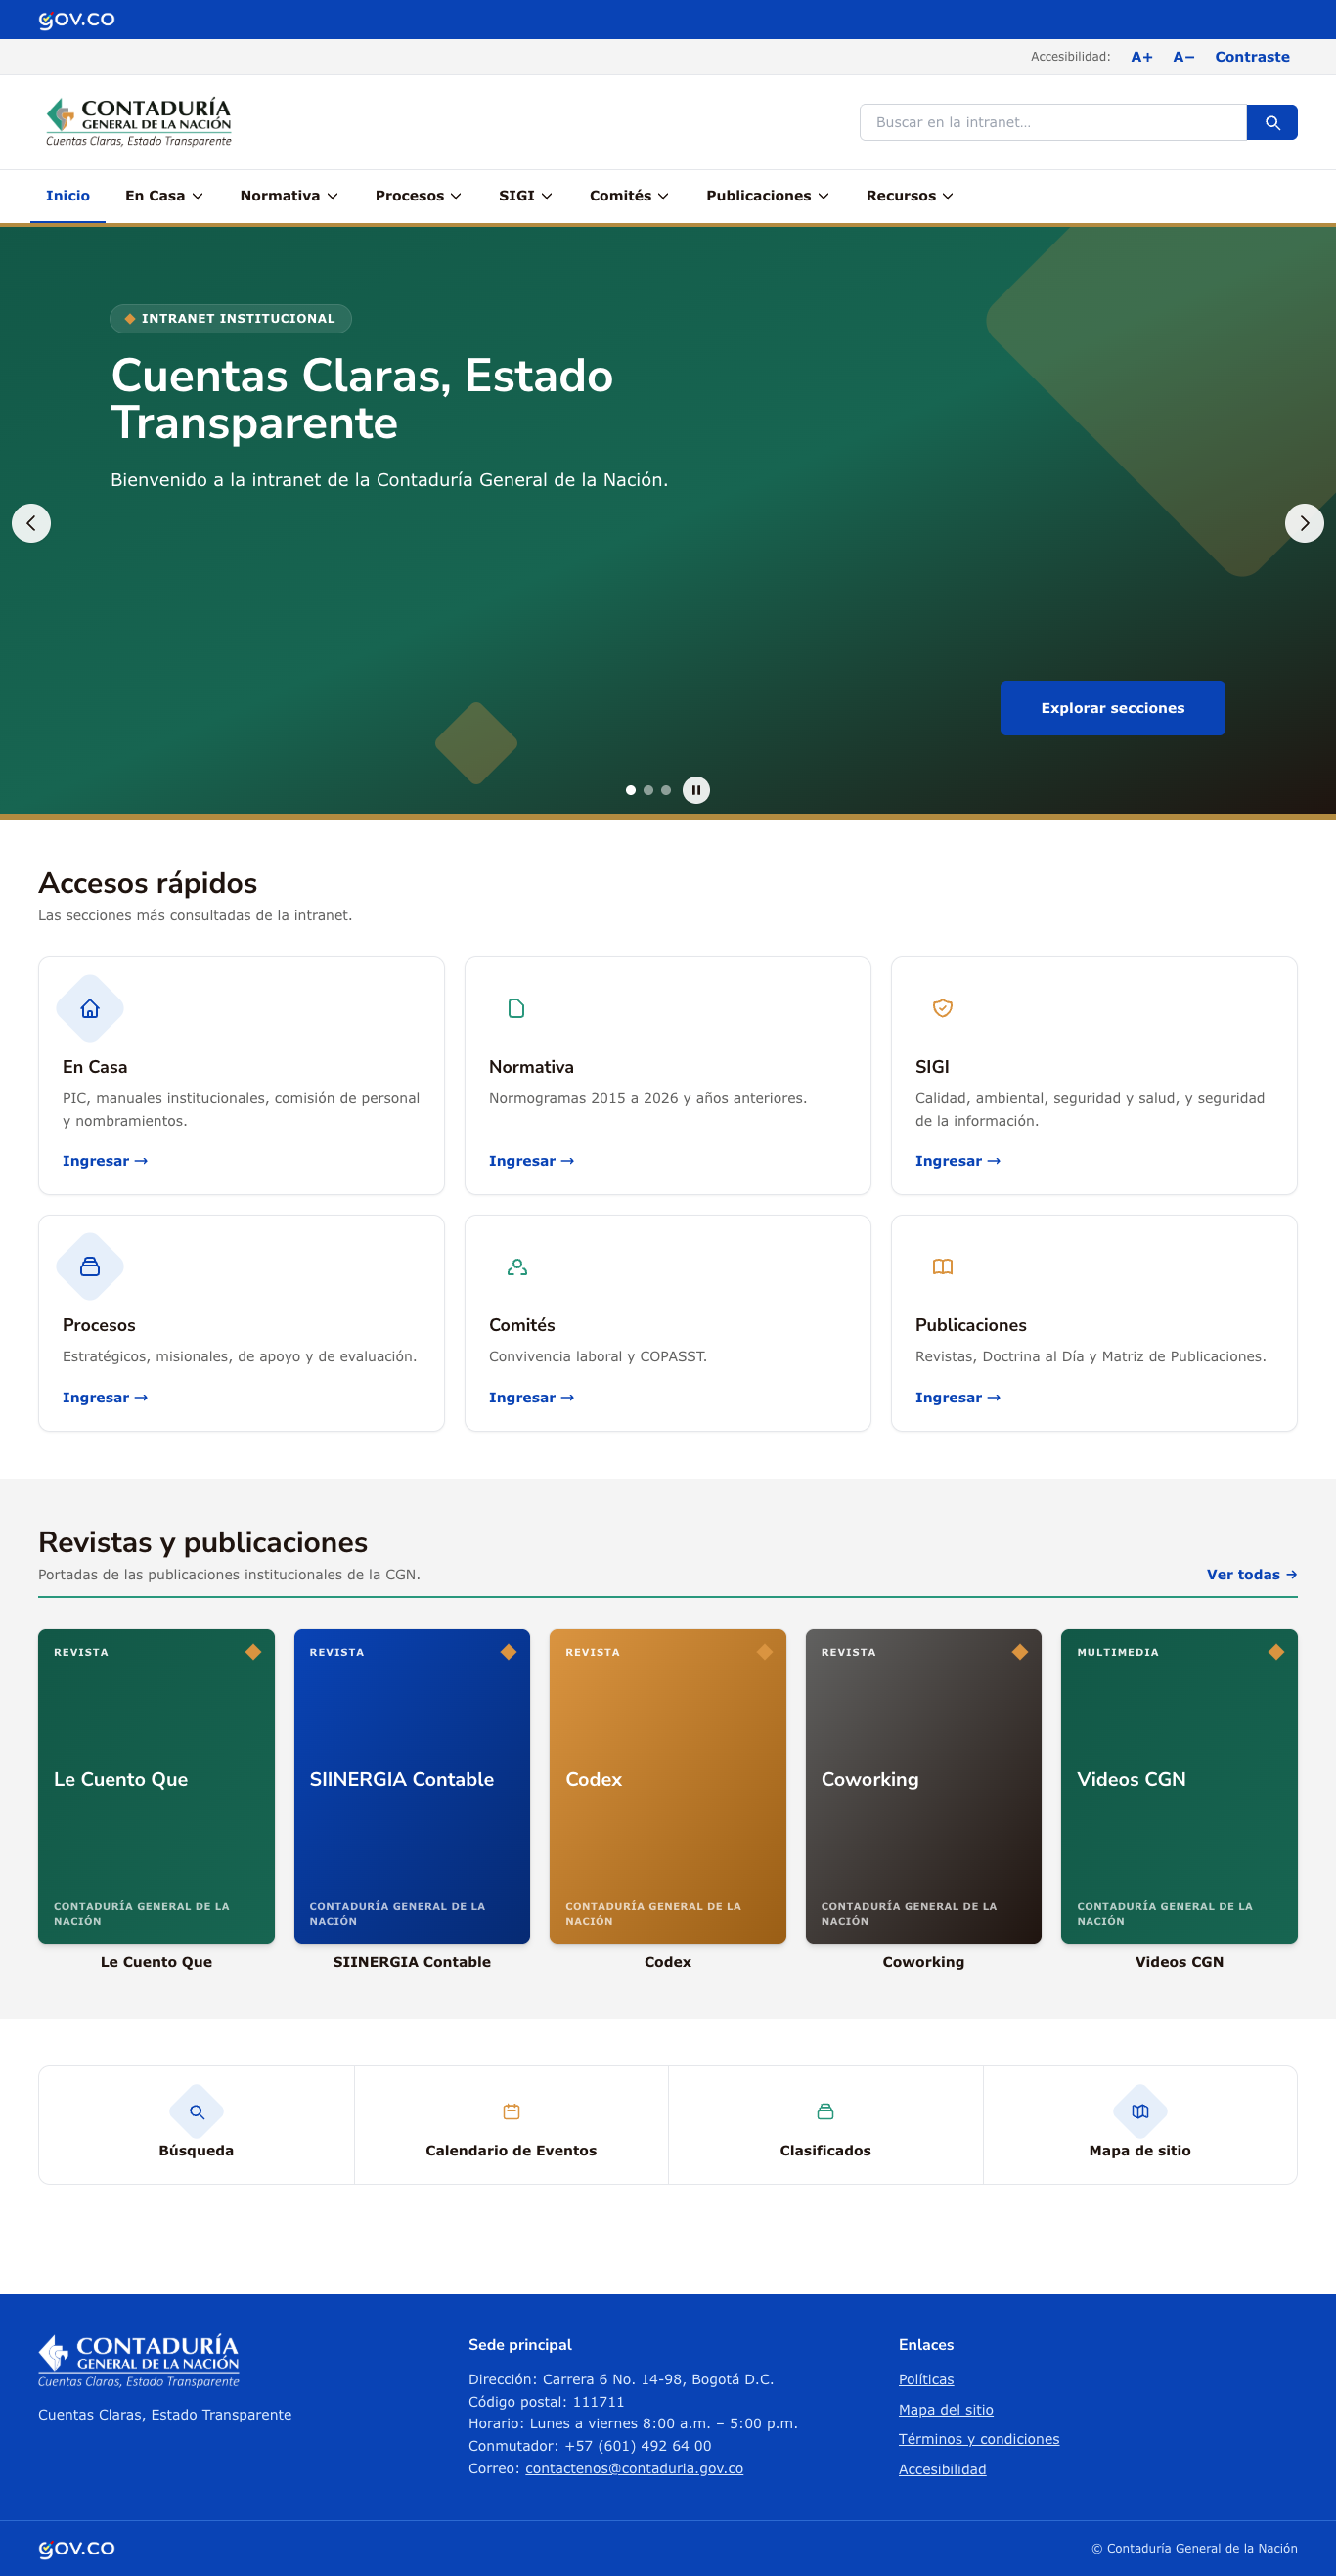
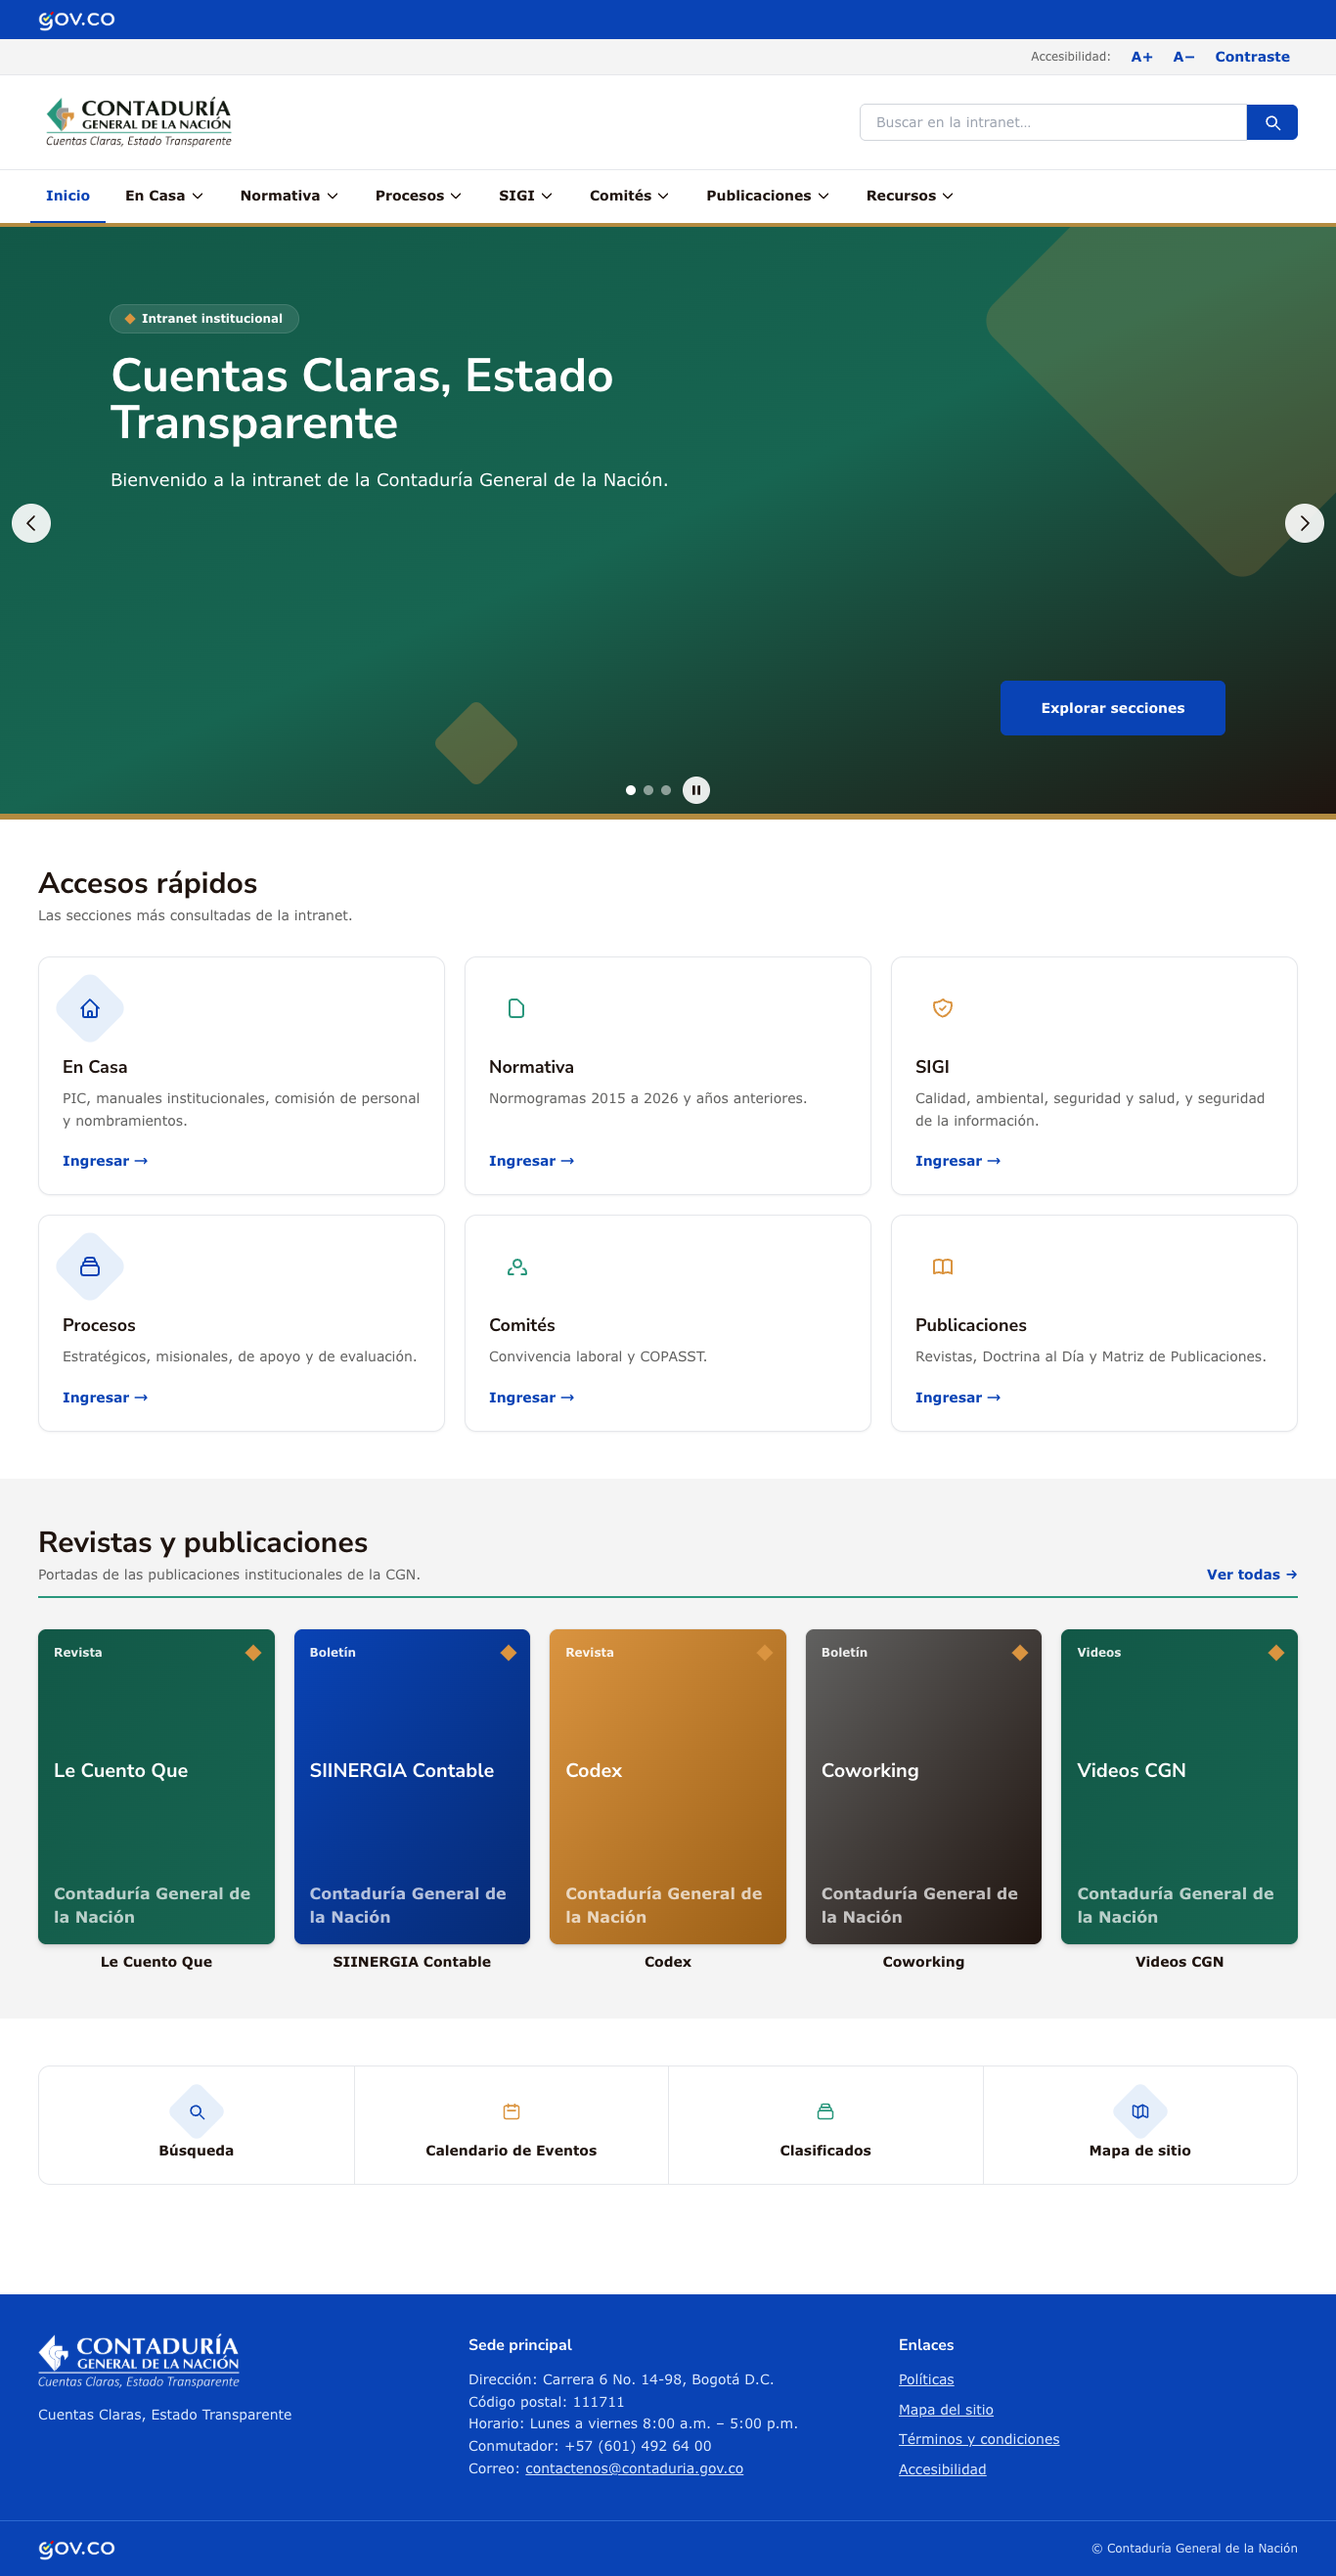
Publicaciones: clasificar boletines vs revistas y quitar mayúsculas sostenidas
- SIINERGIA Contable y Coworking marcados como Boletín (no Revista); etiqueta
  por publicación en nav.json (tag)
- Se elimina el uso de 'uppercase' (mayúsculas sostenidas) en portadas, carrusel,
  hero y encabezados de sección; textos en caja normal
- Revisión ortográfica (acentos correctos); nombres de sección según el mapa de sitio

diff --git a/templates/pages/home.html b/templates/pages/home.html
@@ -42,10 +42,10 @@
       {# Galería de portadas (visual) — listas para reemplazar por las imágenes reales #}
       <div class="grid grid-cols-2 gap-5 sm:grid-cols-3 lg:grid-cols-5">
         {% include "components/cover.html" with title="Le Cuento Que" url="publicaciones.html" color="verde" tag="Revista" %}
-        {% include "components/cover.html" with title="SIINERGIA Contable" url="publicaciones.html" color="cobalt" tag="Revista" %}
+        {% include "components/cover.html" with title="SIINERGIA Contable" url="publicaciones.html" color="cobalt" tag="Boletín" %}
         {% include "components/cover.html" with title="Codex" url="publicaciones.html" color="naranja" tag="Revista" %}
-        {% include "components/cover.html" with title="Coworking" url="publicaciones.html" color="gris" tag="Revista" %}
-        {% include "components/cover.html" with title="Videos CGN" url="publicaciones.html" color="verde" tag="Multimedia" %}
+        {% include "components/cover.html" with title="Coworking" url="publicaciones.html" color="gris" tag="Boletín" %}
+        {% include "components/cover.html" with title="Videos CGN" url="publicaciones.html" color="verde" tag="Videos" %}
       </div>
     </div>
   </section>

diff --git a/templates/components/cover.html b/templates/components/cover.html
@@ -16,11 +16,11 @@
         {% elif color == 'gris' %}bg-gradient-to-br from-cgn-grisos to-cgn-negro
         {% else %}bg-gradient-to-br from-[#125847] to-cgn-verdeos{% endif %}">
         <div class="flex items-center justify-between">
-          <span class="text-[10px] font-bold uppercase tracking-widest text-white/90">{{ tag|default:'Revista' }}</span>
+          <span class="text-xs font-bold tracking-wide text-white/90">{{ tag|default:'Publicación' }}</span>
           <span class="h-3 w-3 rotate-45 bg-cgn-naranja" aria-hidden="true"></span>
         </div>
         <h3 class="font-titulo text-xl font-bold leading-tight text-white">{{ title }}</h3>
-        <div class="text-[10px] font-semibold uppercase tracking-wider text-white/70">Contaduría General de la Nación</div>
+        <div class="text-[11px] font-semibold tracking-wide text-white/70">Contaduría General de la Nación</div>
       </div>
     {% endif %}
   </div>

diff --git a/templates/pages/seccion.html b/templates/pages/seccion.html
@@ -16,7 +16,7 @@
   <header class="relative overflow-hidden bg-gradient-to-r from-[#125847] to-cgn-verdeos">
     <div class="pointer-events-none absolute -right-10 -top-10 h-44 w-44 rotate-45 rounded-3xl bg-white/10" aria-hidden="true"></div>
     <div class="relative mx-auto max-w-contenido px-4 py-10 md:py-12">
-      <span class="mb-3 inline-flex items-center gap-2 rounded-full bg-white/10 px-4 py-1.5 text-xs font-bold uppercase tracking-wider text-white ring-1 ring-white/20">
+      <span class="mb-3 inline-flex items-center gap-2 rounded-full bg-white/10 px-4 py-1.5 text-xs font-bold tracking-wide text-white ring-1 ring-white/20">
         <span class="h-2 w-2 rotate-45 bg-cgn-naranja"></span>Intranet
       </span>
       <h1 class="font-titulo text-3xl font-bold text-white md:text-4xl">{{ seccion.label }}</h1>
@@ -48,7 +48,7 @@
           <div class="grid grid-cols-2 gap-5 sm:grid-cols-3 lg:grid-cols-5">
             {% for it in grupo.children %}
               {% cycle 'verde' 'cobalt' 'naranja' 'gris' as cc silent %}
-              {% include "components/cover.html" with title=it.label url=it.url|default:'#' color=cc tag="Revista" %}
+              {% include "components/cover.html" with title=it.label url=it.url|default:'#' color=cc tag=it.tag|default:'Publicación' %}
             {% endfor %}
           </div>
         {% else %}

diff --git a/templates/components/_carousel_slide.html b/templates/components/_carousel_slide.html
@@ -18,7 +18,7 @@
   {# Lienzo del banner: 1300 × 600 px en desktop, márgenes 80 px (px/py-20) — Manual CGN Fig. 36 #}
   <div class="relative mx-auto flex max-w-contenido flex-col px-4 py-16 md:py-20 lg:min-h-[600px] lg:max-w-[1300px] lg:px-20 lg:py-20">
     <div class="max-w-2xl">
-      <span class="mb-5 inline-flex items-center gap-2 rounded-full bg-white/10 px-4 py-1.5 text-xs font-bold uppercase tracking-wider text-white ring-1 ring-white/20">
+      <span class="mb-5 inline-flex items-center gap-2 rounded-full bg-white/10 px-4 py-1.5 text-xs font-bold tracking-wide text-white ring-1 ring-white/20">
         <span class="h-2 w-2 rotate-45 bg-cgn-naranja"></span>{{ eyebrow|default:'Destacado' }}
       </span>
       <h2 class="font-titulo text-3xl font-bold leading-tight text-white md:text-5xl">{{ title }}</h2>

diff --git a/templates/components/hero.html b/templates/components/hero.html
@@ -27,7 +27,7 @@
   <div class="relative mx-auto grid max-w-contenido items-center gap-10 px-4 py-16 md:py-20 lg:grid-cols-12 lg:py-28">
     {# Texto #}
     <div class="lg:col-span-7">
-      <span class="mb-5 inline-flex items-center gap-2 rounded-full bg-white/10 px-4 py-1.5 text-xs font-bold uppercase tracking-wider text-white ring-1 ring-white/20">
+      <span class="mb-5 inline-flex items-center gap-2 rounded-full bg-white/10 px-4 py-1.5 text-xs font-bold tracking-wide text-white ring-1 ring-white/20">
         <span class="h-2 w-2 rotate-45 bg-cgn-naranja"></span>{{ eyebrow|default:'Intranet institucional' }}
       </span>
       <h1 class="font-titulo text-4xl font-bold leading-[1.1] text-white md:text-5xl lg:text-6xl">